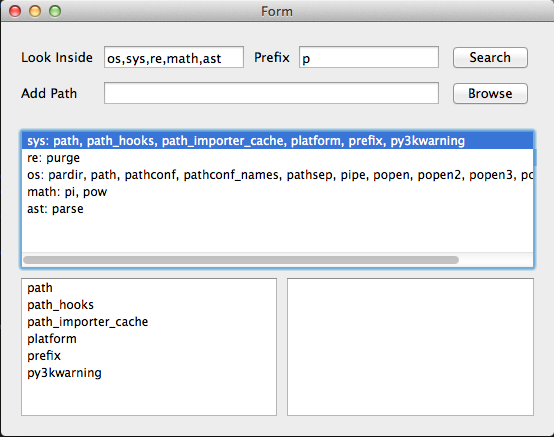
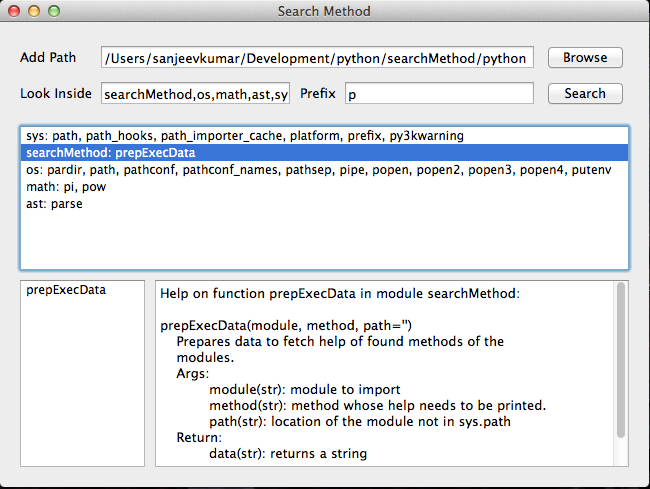
updated screenshot, refector docstring

Changed region(s): [[0.0, 0.0892, 0.9819, 0.9519], [0.0, 0.0, 1.0, 0.0595], [0.0, 0.9817, 1.0, 1.0]]

diff --git a/python/searchMethod.py b/python/searchMethod.py
@@ -17,7 +17,7 @@ class SearchMethod(object):
 			prefix(string): prefix to filter the list
 			path(string): path of the module not in sys.path
 	"""
-	def __init__(self, modules, prefix, path=None, terminal=False):
+	def __init__(self, modules, prefix, path="", terminal=False):
 		super(SearchMethod, self).__init__()
 		self._module = modules
 		self._prefix = prefix
@@ -88,8 +88,7 @@ class SearchMethod(object):
 			for module, methods in self.filterMethods().iteritems():
 				for method in methods:
 					proc = subprocess.Popen(prepExecData(module, method, self._path),  shell=True, stdout=subprocess.PIPE)
-					line = proc.stdout.read()
-					print line
+					print proc.stdout.read()
 
 
 class SearchMethodUI(QtGui.QWidget, searchMethodUI.Ui_searchMethodMainWidget):
@@ -186,7 +185,7 @@ class MyListModel(QtCore.QAbstractListModel):
 		else:
 			return QtCore.QVariant()
 
-def prepExecData(module, method, path=None):
+def prepExecData(module, method, path=""):
 	"""	Prepares data to fetch help of found methods of the
 		modules.
 		Args:
@@ -194,8 +193,7 @@ def prepExecData(module, method, path=None):
 			method(str): method whose help needs to be printed.
 			path(str): location of the module not in sys.path
 		Return:
-			data(str):
-				returns a string
+			data(str): returns a string
 	"""
 	# when path added is not in sys.path by default
 	if path:
